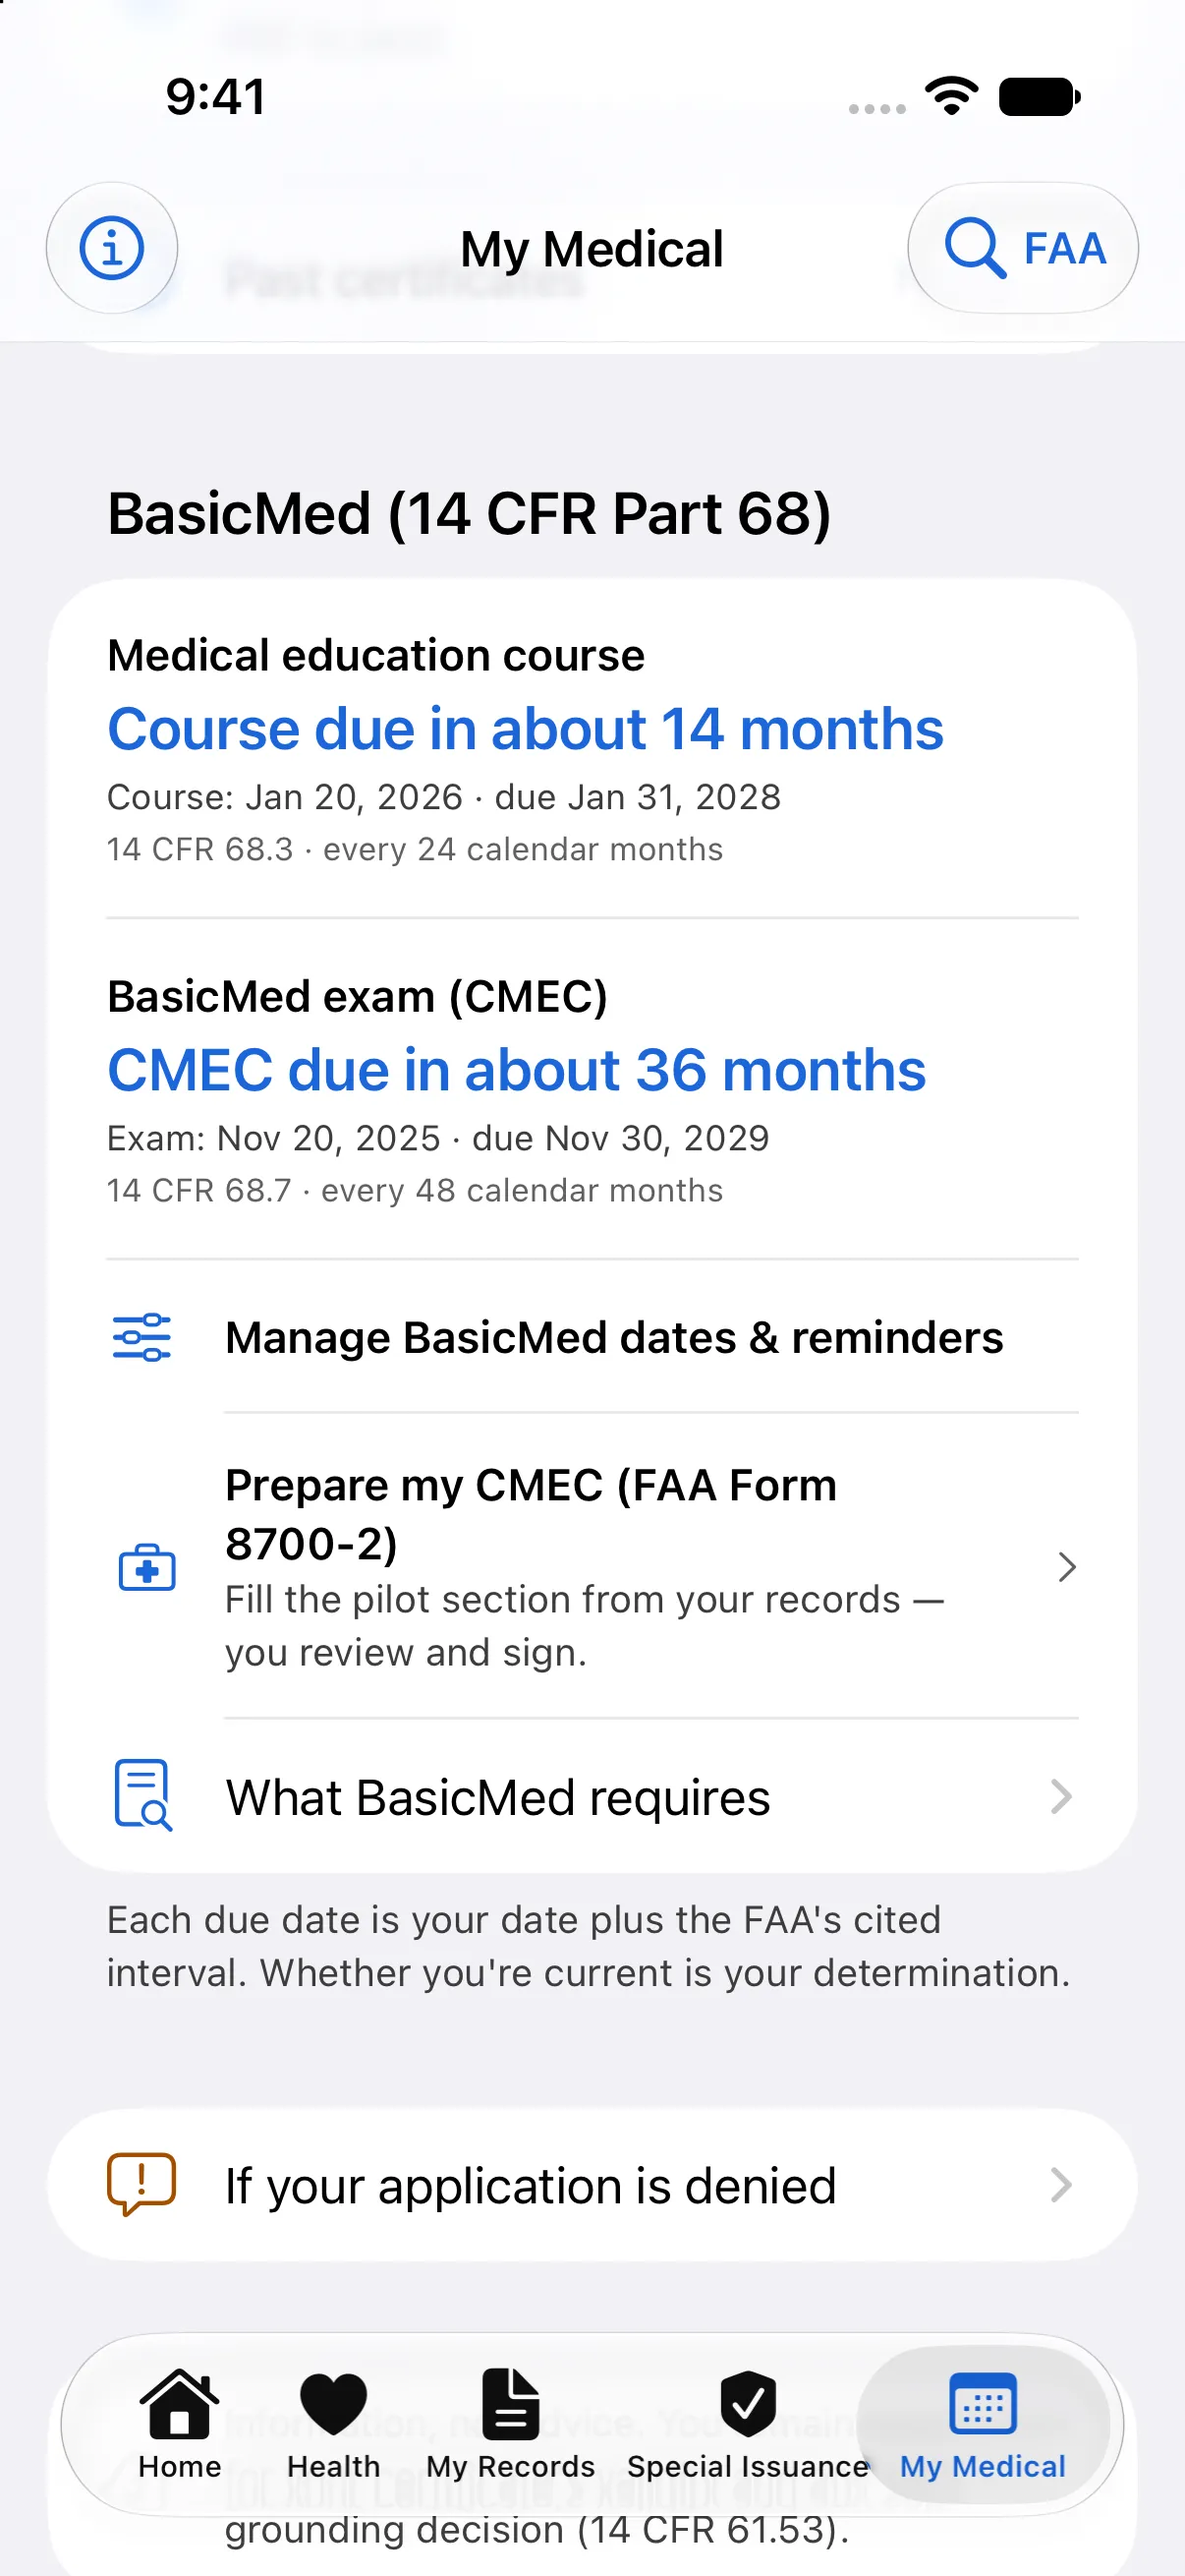
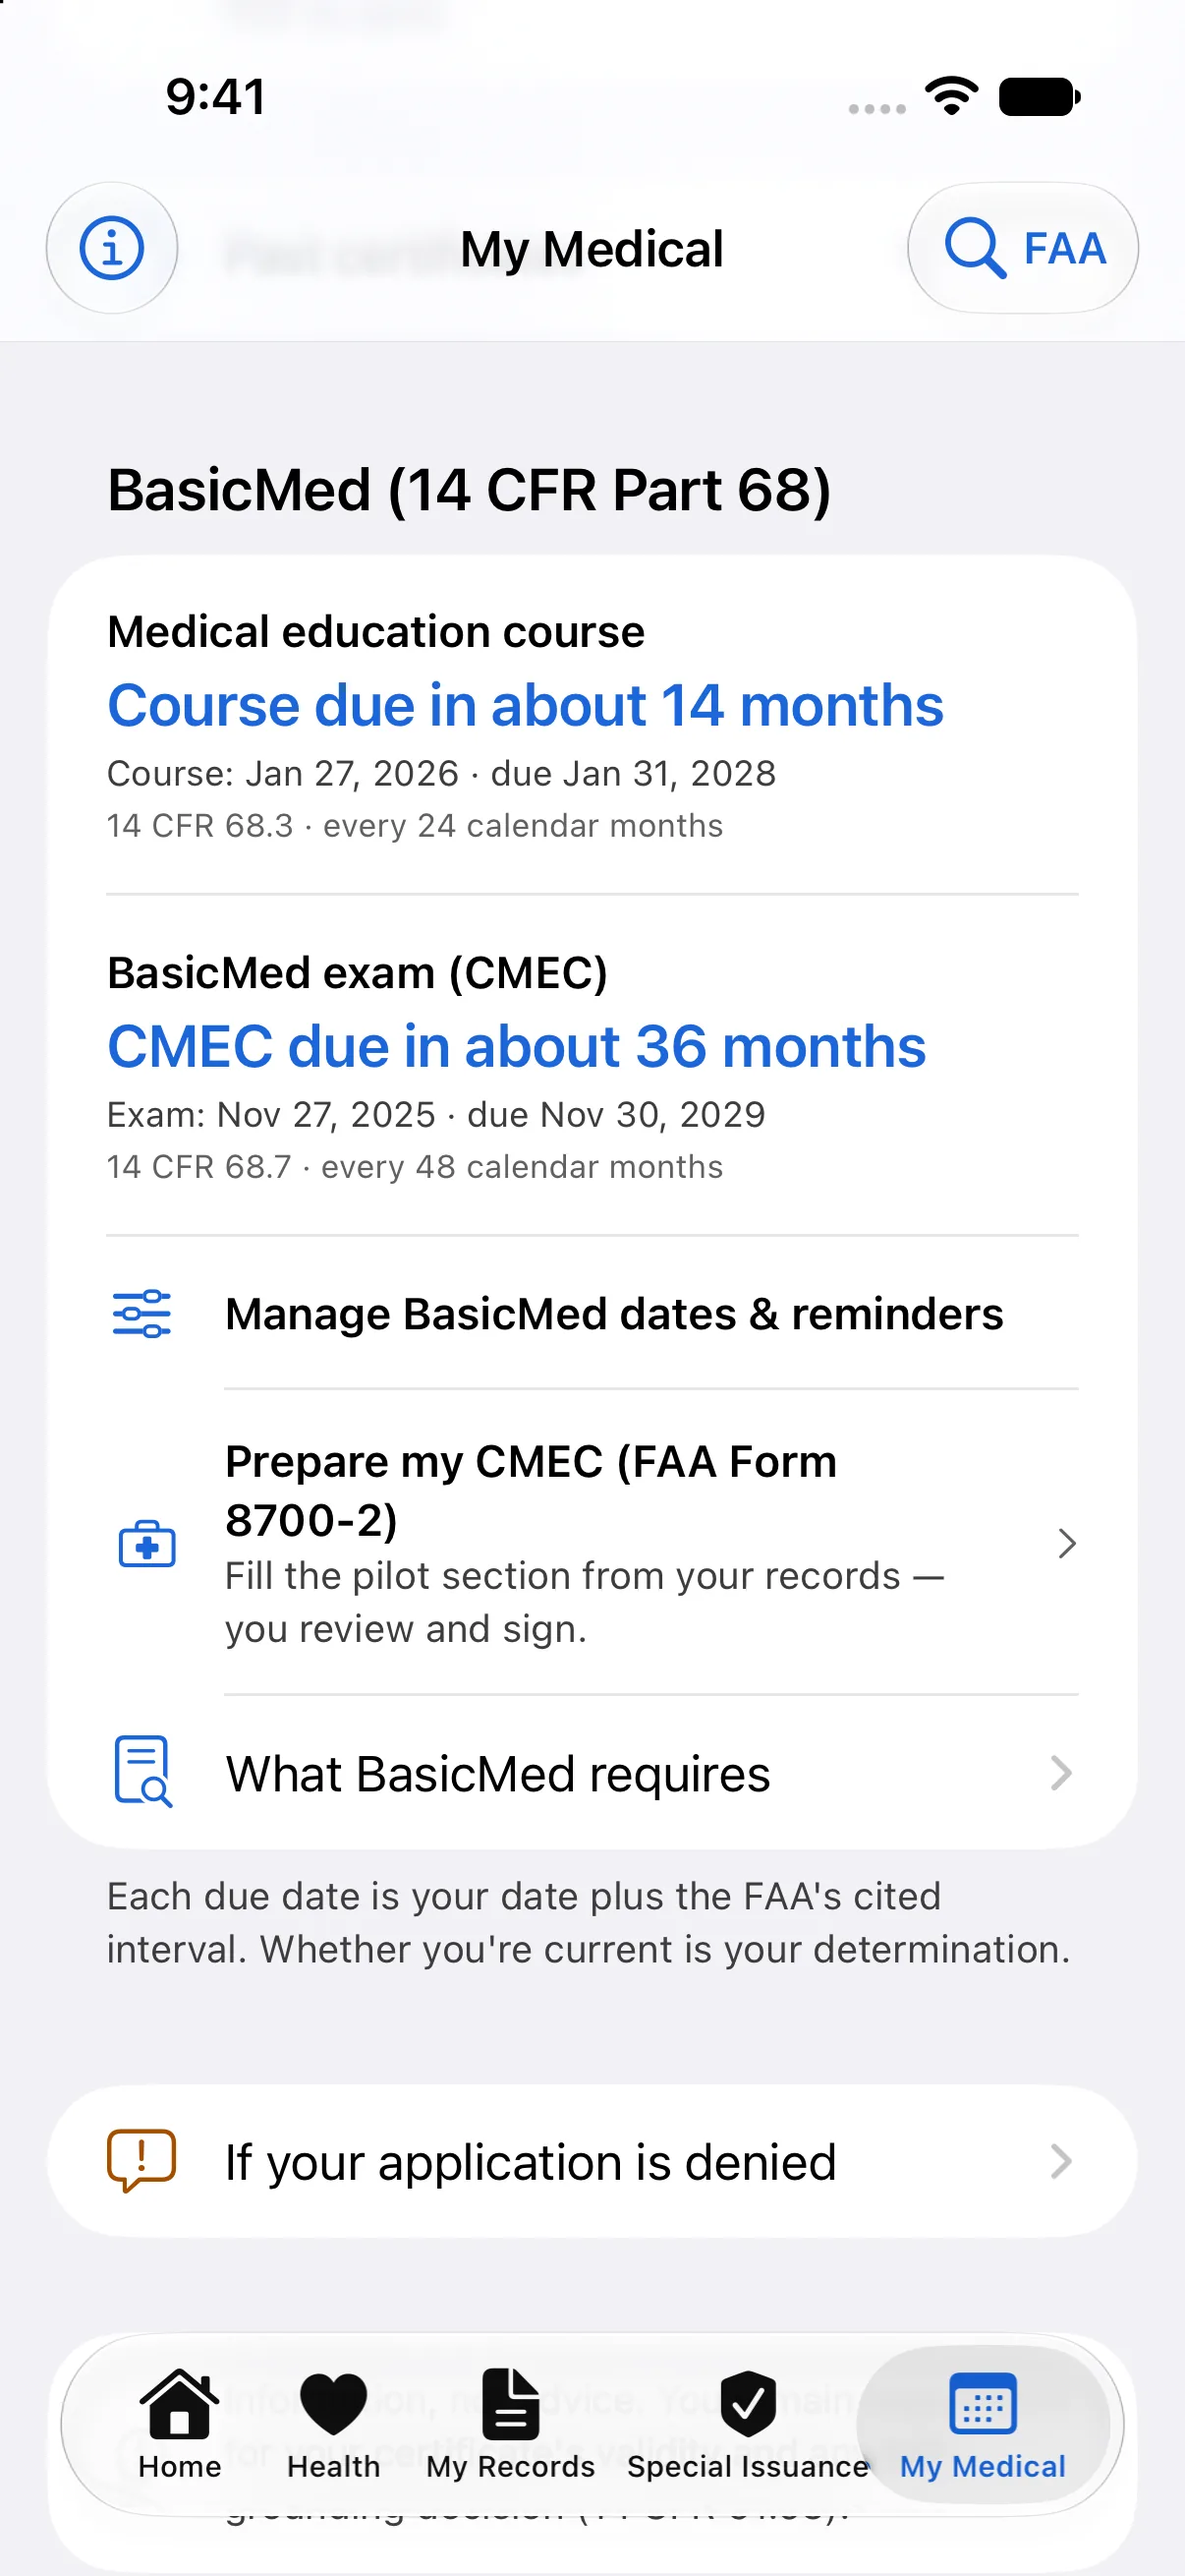
Features page screenshots refreshed (iOS 2.5.1 / Mac 1.4.1, 11/27, Home 246 days to match the hero): home, MedXPress Prep, BasicMed, SI, Health, Share, FAA Reference, Mac Prep; raws kept in screenshots/features-raw

diff --git a/features.html b/features.html
@@ -150,7 +150,7 @@
   <section class="section fsec" id="item18">
     <div class="container">
       <div class="pillar reverse">
-        <figure class="pillar-media"><div class="pillar-stage"><img src="/screenshots/medxpress.webp?v=20261122" width="1206" height="2622" loading="lazy" decoding="async" alt="MedXPress Prep: one list in the form's order, Items 1 to 16, Item 17 medications, Item 18 medical history and Item 19 doctor visits, with the Fill MedXPress button pinned at the bottom"></div><figcaption>Your records, organized and ready to autofill. Sample data.</figcaption></figure>
+        <figure class="pillar-media"><div class="pillar-stage"><img src="/screenshots/medxpress.webp?v=20261127" width="1206" height="2622" loading="lazy" decoding="async" alt="MedXPress Prep: one list in the form's order, Items 1 to 16, Item 17 medications, Item 18 medical history and Item 19 doctor visits, with the Fill MedXPress button pinned at the bottom"></div><figcaption>Your records, organized and ready to autofill. Sample data.</figcaption></figure>
         <div class="pillar-text fsec-text">
           <h2>Item 18</h2>
           <p class="fsec-lead">The app keeps your history and last cycle's explanations, so you answer once and reuse them. In MedXPress the autofill enters your Yes answers with their explanations and every No, then checks the page against your records. You review every answer before you continue.</p>
@@ -169,7 +169,7 @@
           <p>It figures your certificate's expiration from the actual 14 CFR 61.23 rules (your class, your age at the exam, the end-of-month convention), or your BasicMed course and exam clocks, and reminds you before anything lapses.</p>
             <a class="more-link" href="/faa-medical-duration.html">FAA medical duration chart &rarr;</a>
         </div>
-        <figure class="pillar-media"><div class="pillar-stage"><img src="/screenshots/home.webp?v=20261118" width="1206" height="2622" loading="lazy" decoding="async" alt="Home screen showing the time until the medical certificate expires, with BasicMed course and exam countdowns"></div><figcaption>Know exactly when your medical expires. Sample data.</figcaption></figure>
+        <figure class="pillar-media"><div class="pillar-stage"><img src="/screenshots/home.webp?v=20261127" width="1206" height="2622" loading="lazy" decoding="async" alt="Home screen showing the time until the medical certificate expires, with BasicMed course and exam countdowns"></div><figcaption>Know exactly when your medical expires. Sample data.</figcaption></figure>
       </div>
     </div>
   </section>
@@ -179,7 +179,7 @@
       <div class="pillar reverse">
         <figure class="pillar-media">
             <div class="pillar-stage">
-              <img src="/screenshots/basicmed.webp?v=20261120" width="1206" height="2620" loading="lazy" decoding="async" alt="BasicMed screen showing the 24-month medical education course and 48-month comprehensive medical exam countdowns, each with its FAA citation">
+              <img src="/screenshots/basicmed.webp?v=20261127" width="1206" height="2620" loading="lazy" decoding="async" alt="BasicMed screen showing the 24-month medical education course and 48-month comprehensive medical exam countdowns, each with its FAA citation">
             </div>
             <figcaption>Course and exam countdowns with FAA citations. Sample data.</figcaption>
           </figure>
@@ -202,7 +202,7 @@
           <p>See what's coming up for your condition, from the FAA's published requirements, store physician letters and test results, track what you've sent to the FAA, and get alerted when those requirements change.</p>
             <a class="more-link" href="/special-issuance.html">How an FAA Special Issuance works &rarr;</a>
         </div>
-        <figure class="pillar-media"><div class="pillar-stage"><img src="/screenshots/si.webp?v=20261120" width="1206" height="2622" loading="lazy" decoding="async" alt="Special Issuance screen with authorization dates from the pilot's letter and the items coming up"></div><figcaption>Stay on top of Special Issuance. Sample data.</figcaption></figure>
+        <figure class="pillar-media"><div class="pillar-stage"><img src="/screenshots/si.webp?v=20261127" width="1206" height="2622" loading="lazy" decoding="async" alt="Special Issuance screen with authorization dates from the pilot's letter and the items coming up"></div><figcaption>Stay on top of Special Issuance. Sample data.</figcaption></figure>
       </div>
     </div>
   </section>
@@ -220,7 +220,7 @@
   <section class="section fsec" id="health">
     <div class="container">
       <div class="pillar reverse">
-        <figure class="pillar-media"><div class="pillar-stage"><img src="/screenshots/health.webp?v=20261120" width="1206" height="2622" loading="lazy" decoding="async" alt="A health metric charted against the FAA's cited threshold"></div><figcaption>Your numbers vs. the FAA's own thresholds. Sample data.</figcaption></figure>
+        <figure class="pillar-media"><div class="pillar-stage"><img src="/screenshots/health.webp?v=20261127" width="1206" height="2622" loading="lazy" decoding="async" alt="A health metric charted against the FAA's cited threshold"></div><figcaption>Your numbers vs. the FAA's own thresholds. Sample data.</figcaption></figure>
         <div class="pillar-text fsec-text">
           <h2>Health vs. FAA thresholds</h2>
           <p class="fsec-lead">Charts your metrics against the FAA's own cited limits, so you can see where each of your numbers stands.</p>
@@ -241,7 +241,7 @@
           <p>When it's time for your exam, bundle what you choose into one clean PDF and send it to your AME right from your phone: your certificate or BasicMed dates, medications, visits, Special Issuance, and the documents you've saved. You pick what goes in; it's built on your device and only leaves when you hit share.</p>
           <p class="fineprint">Everything stays on your device and your own iCloud. Nothing is uploaded to me.</p>
         </div>
-        <figure class="pillar-media"><div class="pillar-stage"><img src="/screenshots/documents.webp?v=20261122" width="1206" height="2620" loading="lazy" decoding="async" alt="The Share-with-your-AME screen, choosing which records to bundle into one PDF"></div><figcaption>Bundle it into one PDF for your AME. Sample data.</figcaption></figure>
+        <figure class="pillar-media"><div class="pillar-stage"><img src="/screenshots/documents.webp?v=20261127" width="1206" height="2620" loading="lazy" decoding="async" alt="The Share-with-your-AME screen, choosing which records to bundle into one PDF"></div><figcaption>Bundle it into one PDF for your AME. Sample data.</figcaption></figure>
       </div>
     </div>
   </section>
@@ -249,7 +249,7 @@
   <section class="section fsec" id="reference">
     <div class="container">
       <div class="pillar reverse">
-        <figure class="pillar-media"><div class="pillar-stage"><img src="/screenshots/faa-reference.webp?v=20261120" width="1206" height="2622" loading="lazy" decoding="async" alt="An FAA Reference entry showing an FAA rule in plain words, the FAA source it links to, and the date the citation was checked"></div><figcaption>Ask a plain question, get the FAA's cited answer. Sample data.</figcaption></figure>
+        <figure class="pillar-media"><div class="pillar-stage"><img src="/screenshots/faa-reference.webp?v=20261127" width="1206" height="2622" loading="lazy" decoding="async" alt="An FAA Reference entry showing an FAA rule in plain words, the FAA source it links to, and the date the citation was checked"></div><figcaption>Ask a plain question, get the FAA's cited answer. Sample data.</figcaption></figure>
         <div class="pillar-text fsec-text">
           <h2>FAA reference search</h2>
           <p class="fsec-lead">Ask a plain question and get the FAA's own answer, with the citation and a link to the source.</p>
@@ -283,7 +283,7 @@
         <p>Most pilots fill out MedXPress sitting at a computer. The Mac app puts your records on that same machine: click Fill MedXPress to open the form inside the app (Safari works too), click Fill on each page, and your application details, medications, Item 18 answers and doctor visits drop into the form. You review every line and submit it yourself. On a Windows PC, the Chrome or Edge extension does the same with Guardian Pro (<a href="#windows">below</a>).</p>
       </div>
       <figure class="macshot">
-        <img src="/screenshots/mac-medxpress.webp?v=20261122" width="2200" height="1723" loading="lazy" decoding="async" alt="Pilot Medical Guardian on macOS showing the MedXPress Prep screen, with the sidebar at left, the Items 1 to 16 tab open on application details and address, and tabs for Items 17, 18 and 19">
+        <img src="/screenshots/mac-medxpress.webp?v=20261127" width="2200" height="1723" loading="lazy" decoding="async" alt="Pilot Medical Guardian on macOS showing the MedXPress Prep screen, with the sidebar at left, the Items 1 to 16 tab open on application details and address, and tabs for Items 17, 18 and 19">
       </figure>
       <div class="macgrid">
         <div class="maccard">

diff --git a/special-issuance.html b/special-issuance.html
@@ -413,7 +413,7 @@
     <div class="card">
       <p style="margin-top:0"><strong>Pilot Medical Guardian</strong> keeps that cycle in one place. You record your Authorization and its dates, and the app lists what's coming up for your condition, drawn from the FAA's own AME Guide, with the source cited on every line and a link to the FAA's page. Each item carries its cadence, takes the document you scan for it, and on iPhone and iPad can hold a reminder you set. It is a <strong>privacy-first app for iPhone, iPad, and Mac</strong>: your records stay on your own device and iCloud, and I can never see them.</p>
       <figure class="shot phone">
-        <img src="/screenshots/si.webp?v=20261120" width="1206" height="2622" loading="lazy" decoding="async" alt="Pilot Medical Guardian Special Issuance screen for hypertension on medication, showing the authorization dates entered from the FAA letter and the items coming up, one marked done">
+        <img src="/screenshots/si.webp?v=20261127" width="1206" height="2622" loading="lazy" decoding="async" alt="Pilot Medical Guardian Special Issuance screen for hypertension on medication, showing the authorization dates entered from the FAA letter and the items coming up, one marked done">
         <figcaption>What's coming up for one condition. Sample data.</figcaption>
       </figure>
       <p><strong>What it does not do is tell you what your own Authorization requires.</strong> The app says so under the checklist itself: your FAA Authorization letter is the authority on which items apply to you and on what cadence. That is deliberate, and it is the same thing the FAA says. The AME Guide describes what is generally expected for a condition. Your letter's attachments are what govern for you, and no app can read your letter for you.</p>
